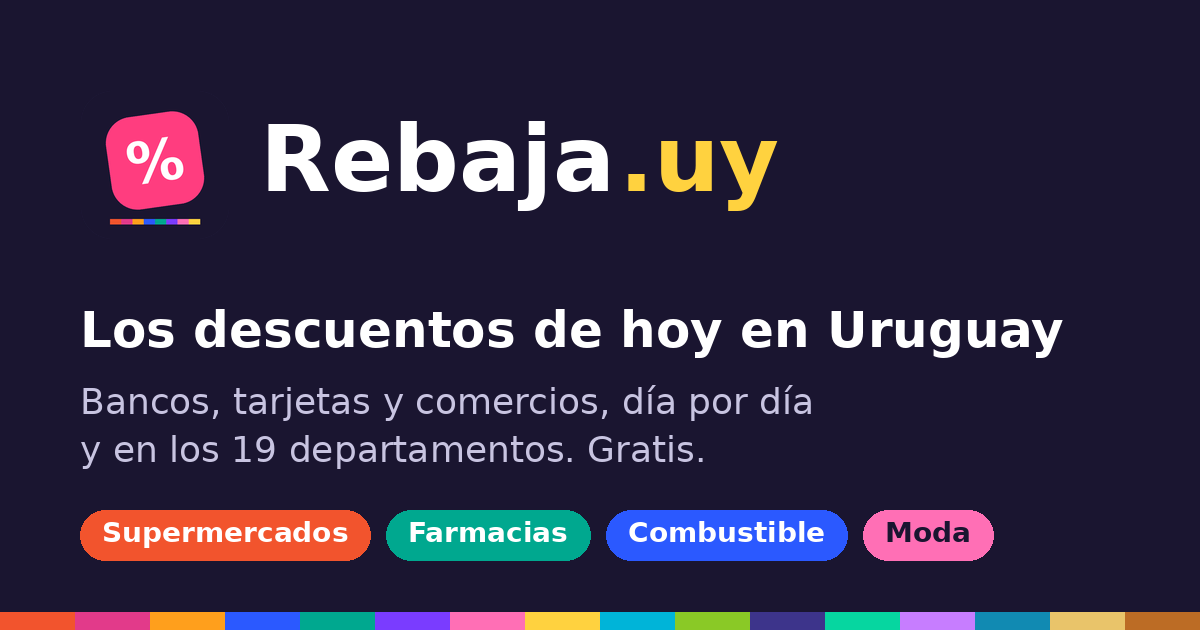
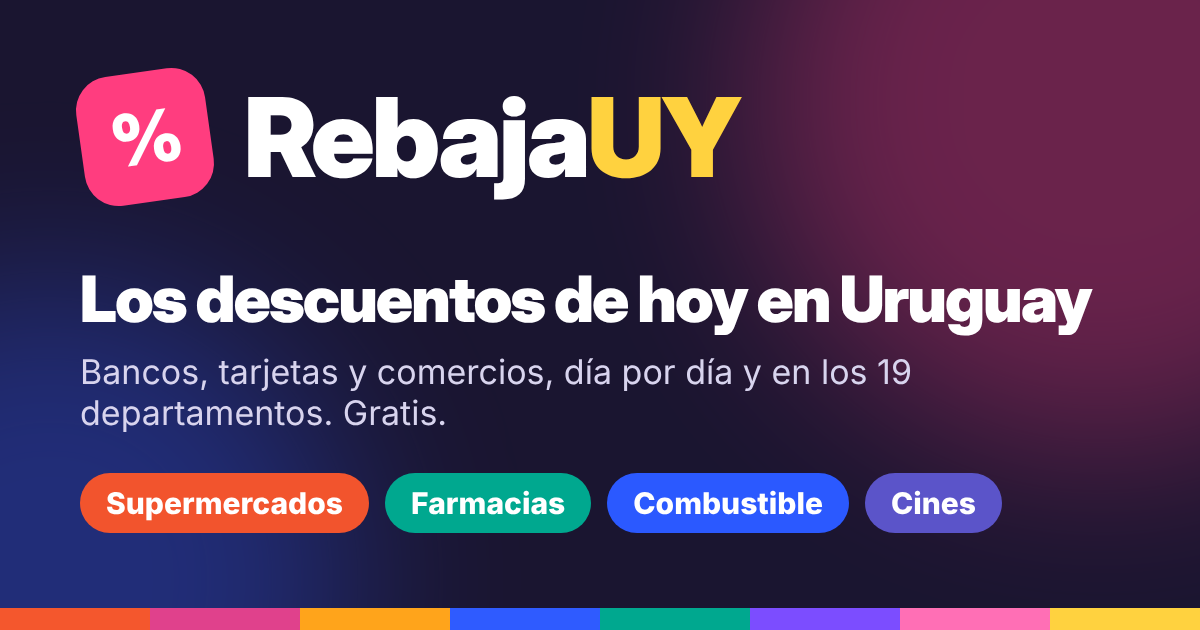
Nuevo nombre: RebajaUY

diff --git a/index.html b/index.html
@@ -12,11 +12,11 @@
 <link rel="apple-touch-icon" href="apple-touch-icon.png">
 <meta name="apple-mobile-web-app-capable" content="yes">
 <meta name="mobile-web-app-capable" content="yes">
-<meta name="apple-mobile-web-app-title" content="Rebaja.uy">
+<meta name="apple-mobile-web-app-title" content="RebajaUY">
 <meta name="apple-mobile-web-app-status-bar-style" content="black-translucent">
 <meta property="og:type" content="website">
-<meta property="og:site_name" content="Rebaja.uy">
-<meta property="og:title" content="Rebaja.uy · Descuentos de hoy en Uruguay">
+<meta property="og:site_name" content="RebajaUY">
+<meta property="og:title" content="RebajaUY · Descuentos de hoy en Uruguay">
 <meta property="og:description" content="Descuentos de bancos, tarjetas y comercios, día por día y en los 19 departamentos. Gratis.">
 <meta property="og:url" content="https://rebajauy.com/">
 <meta property="og:image" content="https://rebajauy.com/og.png">
@@ -24,10 +24,10 @@
 <meta property="og:image:height" content="630">
 <meta property="og:locale" content="es_UY">
 <meta name="twitter:card" content="summary_large_image">
-<meta name="twitter:title" content="Rebaja.uy · Descuentos de hoy en Uruguay">
+<meta name="twitter:title" content="RebajaUY · Descuentos de hoy en Uruguay">
 <meta name="twitter:description" content="Descuentos de bancos, tarjetas y comercios, día por día y en los 19 departamentos.">
 <meta name="twitter:image" content="https://rebajauy.com/og.png">
-<title>Rebaja Uruguay</title>
+<title>RebajaUY · Descuentos de hoy en Uruguay</title>
 <link rel="preconnect" href="https://fonts.googleapis.com">
 <link rel="stylesheet" href="https://fonts.googleapis.com/css2?family=Unbounded:wght@600;800&family=Figtree:wght@400;500;600;700&display=swap">
 <style>
@@ -243,7 +243,7 @@ dialog::backdrop{background:rgba(15,13,26,.6)}
 
 <header class="hero">
   <div class="hero-in">
-    <h1><span class="pc">%</span><span>Rebaja<em>.uy</em></span></h1>
+    <h1><span class="pc">%</span><span>Rebaja<em>UY</em></span></h1>
     <div class="pills">
       <button class="pill loc" id="pLoc" type="button"></button>
       <button class="pill" id="pCards" type="button"></button>
@@ -780,9 +780,9 @@ function openReports(){}
 async function shareDeal(d){
   const url=location.origin+location.pathname+"?d="+encodeURIComponent(d.id);
   const pct=d.pct!=null&&d.pct!==""?d.pct+"% · ":"";
-  const text=`${pct}${d.com}: ${d.tit}. ${daysTxt(d)}${d.hasta?`, hasta el ${fechaCorta(d.hasta)}`:""}. Lo vi en Rebaja.uy`;
+  const text=`${pct}${d.com}: ${d.tit}. ${daysTxt(d)}${d.hasta?`, hasta el ${fechaCorta(d.hasta)}`:""}. Lo vi en RebajaUY`;
   track("compartir",d.id);
-  if(navigator.share){try{await navigator.share({title:"Rebaja.uy",text,url});return}catch(e){if(e&&e.name==="AbortError")return}}
+  if(navigator.share){try{await navigator.share({title:"RebajaUY",text,url});return}catch(e){if(e&&e.name==="AbortError")return}}
   window.open("https://wa.me/?text="+encodeURIComponent(text+"\n"+url),"_blank","noopener");
 }
 let deep=null;try{deep=new URLSearchParams(location.search).get("d")}catch(e){}
@@ -819,7 +819,7 @@ function installBar(){
   if(isApp()||instHidden())return "";
   const p=plat();if(p==="firefox"&&!instPrompt)return "";
   const movil=/^(ios|ios-otro|android)$/.test(p);
-  return `<div class="instbar"><img class="ic" src="icon-192.png" alt=""><div class="tx"><b>Tené Rebaja.uy como app</b>${movil?"Gratis, en tu pantalla de inicio.":"Abrila con un clic, en su propia ventana."}</div><button type="button" class="btn" data-open="install">Instalar</button><button type="button" class="nx" data-instx aria-label="Ahora no">×</button></div>`;
+  return `<div class="instbar"><img class="ic" src="icon-192.png" alt=""><div class="tx"><b>Tené RebajaUY como app</b>${movil?"Gratis, en tu pantalla de inicio.":"Abrila con un clic, en su propia ventana."}</div><button type="button" class="btn" data-open="install">Instalar</button><button type="button" class="nx" data-instx aria-label="Ahora no">×</button></div>`;
 }
 const SH=`<svg viewBox="0 0 24 24"><path d="M12 3v12M7 8l5-5 5 5"/><path d="M5 12v7a2 2 0 0 0 2 2h10a2 2 0 0 0 2-2v-7"/></svg>`;
 const DOTS=`<svg viewBox="0 0 24 24"><circle cx="12" cy="5" r="1.5"/><circle cx="12" cy="12" r="1.5"/><circle cx="12" cy="19" r="1.5"/></svg>`;
@@ -827,17 +827,17 @@ async function openInstall(){
   if(isApp()){toast("Ya la estás usando como app");return}
   if(instPrompt){
     const ev=instPrompt;instPrompt=null;
-    try{ev.prompt();const r=await ev.userChoice;if(r&&r.outcome==="accepted")toast("¡Listo! Rebaja.uy quedó instalada")}catch(e){}
+    try{ev.prompt();const r=await ev.userChoice;if(r&&r.outcome==="accepted")toast("¡Listo! RebajaUY quedó instalada")}catch(e){}
     renderAll();return;
   }
   const p=plat();let pasos,nota="";
-  if(p==="ios")pasos=[`Tocá el botón <span class="k">${SH} Compartir</span> abajo de la pantalla (en iPad, arriba a la derecha). Si no lo ves, tocá primero <span class="k">···</span>.`,`Deslizá y elegí <span class="k">Agregar a inicio</span>.`,`Tocá <span class="k">Agregar</span>. El ícono de Rebaja.uy aparece junto a tus apps.`];
+  if(p==="ios")pasos=[`Tocá el botón <span class="k">${SH} Compartir</span> abajo de la pantalla (en iPad, arriba a la derecha). Si no lo ves, tocá primero <span class="k">···</span>.`,`Deslizá y elegí <span class="k">Agregar a inicio</span>.`,`Tocá <span class="k">Agregar</span>. El ícono de RebajaUY aparece junto a tus apps.`];
   else if(p==="ios-otro")pasos=[`Tocá el botón <span class="k">${SH} Compartir</span> del navegador.`,`Elegí <span class="k">Agregar a inicio</span>.`,`Tocá <span class="k">Agregar</span>.`],nota="Si no aparece la opción, abrí rebajauy.com en Safari y hacelo desde ahí.";
   else if(p==="android")pasos=[`Tocá el menú <span class="k">${DOTS}</span> arriba a la derecha.`,`Elegí <span class="k">Instalar app</span> o <span class="k">Agregar a la pantalla principal</span>.`,`Confirmá con <span class="k">Instalar</span>.`];
   else if(p==="mac-safari")pasos=[`En la barra de arriba, abrí el menú <span class="k">Archivo</span>.`,`Elegí <span class="k">Agregar al Dock</span>.`,`Tocá <span class="k">Agregar</span>. La vas a encontrar en el Dock y en Aplicaciones.`];
   else if(p==="firefox")pasos=[`Firefox no instala apps web en la computadora.`,`Guardala en favoritos con <span class="k">Ctrl + D</span> (o <span class="k">⌘ + D</span> en Mac).`],nota="Para tenerla como app, abrila en Chrome o Edge.";
   else pasos=[`Buscá el ícono de instalar <span class="k">⊕</span> a la derecha de la barra de direcciones.`,`O abrí el menú <span class="k">${DOTS}</span> → <span class="k">Transmitir, guardar y compartir</span> → <span class="k">Instalar página como app</span>.`,`Confirmá con <span class="k">Instalar</span>.`];
-  openSheet(`<h2>Instalar Rebaja.uy</h2><p class="lead">Es gratis, no ocupa casi espacio y se actualiza sola.</p><ol class="isteps">${pasos.map(x=>`<li>${x}</li>`).join("")}</ol>${nota?`<p class="lead">${nota}</p>`:""}<button type="button" class="btn ghost" data-close>Entendido</button>`);
+  openSheet(`<h2>Instalar RebajaUY</h2><p class="lead">Es gratis, no ocupa casi espacio y se actualiza sola.</p><ol class="isteps">${pasos.map(x=>`<li>${x}</li>`).join("")}</ol>${nota?`<p class="lead">${nota}</p>`:""}<button type="button" class="btn ghost" data-close>Entendido</button>`);
 }
 window.addEventListener("beforeinstallprompt",e=>{e.preventDefault();instPrompt=e;if(!dlg.open)renderAll()});
 window.addEventListener("appinstalled",()=>{instPrompt=null;if(!dlg.open)renderAll()});

diff --git a/sw.js b/sw.js
@@ -1,6 +1,6 @@
-// Rebaja.uy: permite instalarla como app y abrirla rápido, incluso sin señal.
+// RebajaUY: permite instalarla como app y abrirla rápido, incluso sin señal.
 // Siempre intenta traer lo más nuevo de internet; si no hay conexión, usa la última copia guardada.
-const CACHE = "rebaja-v2";
+const CACHE = "rebaja-v3";
 const BASE = ["./", "index.html", "manifest.webmanifest", "icon-192.png", "icon-512.png", "apple-touch-icon.png"];
 
 self.addEventListener("install", e => {
